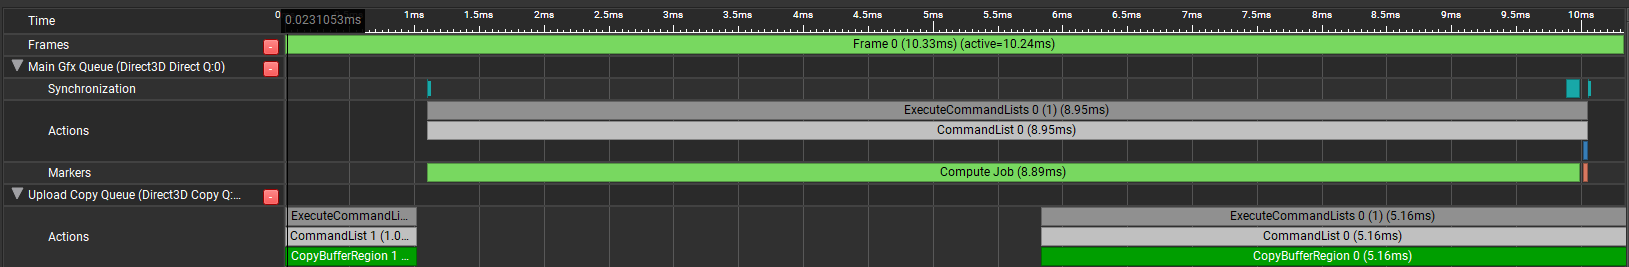
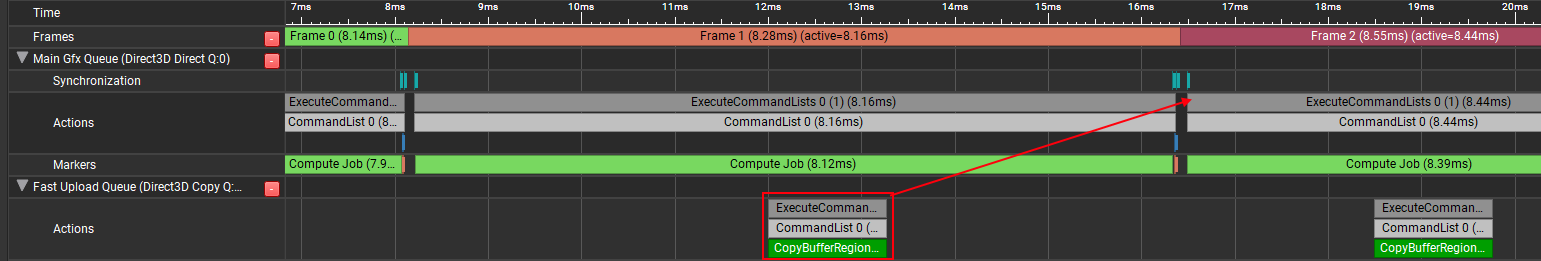
Big revision pass for the upload section

diff --git a/posts/gpu-memory-pool/index.html b/posts/gpu-memory-pool/index.html
@@ -6,11 +6,11 @@
 	<meta name="viewport" content="width=device-width, initial-scale=1.0">
 	<meta http-equiv="X-UA-Compatible" content="ie=edge">
 <meta itemprop="name" content="GPU Memory Pools in D3D12">
-<meta itemprop="description" content="Basics of GPU Memory Integrated/UMA GPUs Dedicated/NUMA GPUs How It Works In D3D12 Common Patterns in D3D12 Textures And The Two-Step Upload Working With The COPY Queue Allocating Staging Memory What About Buffers? What About DirectStorage? Results From My Testing App CPU Write Performance CPU Read Performance GPU Read Performance, Normal Access GPU Read Performance, Non-Coalesced Access GPU Read Performance, Various Buffer Sizes Conclusion When the monkey&rsquo;s paw granted our wish for lower-level/explicit graphics APIs, one of the consequences was that we were much more directly exposed to the fact that GPUs can have their own separate set of physical memory."><meta itemprop="datePublished" content="2022-07-25T00:00:00+00:00" />
+<meta itemprop="description" content="Basics of GPU Memory Integrated/UMA GPUs Dedicated/NUMA GPUs How It Works In D3D12 Common Patterns in D3D12 Textures And The Two-Step Upload Should We Upload Buffers? Working With The COPY Queue Two COPY Queues Are Better Than One? Allocating Staging Memory What About DirectStorage? Results From My Testing App CPU Write Performance CPU Read Performance GPU Read Performance, Normal Access GPU Read Performance, Non-Coalesced Access GPU Read Performance, Various Buffer Sizes Conclusion When the monkey&rsquo;s paw granted our wish for lower-level/explicit graphics APIs, one of the consequences was that we were much more directly exposed to the fact that GPUs can have their own separate set of physical memory."><meta itemprop="datePublished" content="2022-07-25T00:00:00+00:00" />
 <meta itemprop="dateModified" content="2022-07-25T00:00:00+00:00" />
-<meta itemprop="wordCount" content="8178"><meta itemprop="image" content="https://therealmjp.github.io/images/gpu-memory-pools/buffer_upload_copy_queue.png">
+<meta itemprop="wordCount" content="9294"><meta itemprop="image" content="https://therealmjp.github.io/images/gpu-memory-pools/buffer_upload_copy_queue.png">
 <meta itemprop="keywords" content="Graphics,DX12," /><meta property="og:title" content="GPU Memory Pools in D3D12" />
-<meta property="og:description" content="Basics of GPU Memory Integrated/UMA GPUs Dedicated/NUMA GPUs How It Works In D3D12 Common Patterns in D3D12 Textures And The Two-Step Upload Working With The COPY Queue Allocating Staging Memory What About Buffers? What About DirectStorage? Results From My Testing App CPU Write Performance CPU Read Performance GPU Read Performance, Normal Access GPU Read Performance, Non-Coalesced Access GPU Read Performance, Various Buffer Sizes Conclusion When the monkey&rsquo;s paw granted our wish for lower-level/explicit graphics APIs, one of the consequences was that we were much more directly exposed to the fact that GPUs can have their own separate set of physical memory." />
+<meta property="og:description" content="Basics of GPU Memory Integrated/UMA GPUs Dedicated/NUMA GPUs How It Works In D3D12 Common Patterns in D3D12 Textures And The Two-Step Upload Should We Upload Buffers? Working With The COPY Queue Two COPY Queues Are Better Than One? Allocating Staging Memory What About DirectStorage? Results From My Testing App CPU Write Performance CPU Read Performance GPU Read Performance, Normal Access GPU Read Performance, Non-Coalesced Access GPU Read Performance, Various Buffer Sizes Conclusion When the monkey&rsquo;s paw granted our wish for lower-level/explicit graphics APIs, one of the consequences was that we were much more directly exposed to the fact that GPUs can have their own separate set of physical memory." />
 <meta property="og:type" content="article" />
 <meta property="og:url" content="https://therealmjp.github.io/posts/gpu-memory-pool/" /><meta property="og:image" content="https://therealmjp.github.io/images/gpu-memory-pools/buffer_upload_copy_queue.png" /><meta property="article:section" content="posts" />
 <meta property="article:published_time" content="2022-07-25T00:00:00+00:00" />
@@ -20,7 +20,7 @@
 <meta name="twitter:image" content="https://therealmjp.github.io/images/gpu-memory-pools/buffer_upload_copy_queue.png"/>
 
 <meta name="twitter:title" content="GPU Memory Pools in D3D12"/>
-<meta name="twitter:description" content="Basics of GPU Memory Integrated/UMA GPUs Dedicated/NUMA GPUs How It Works In D3D12 Common Patterns in D3D12 Textures And The Two-Step Upload Working With The COPY Queue Allocating Staging Memory What About Buffers? What About DirectStorage? Results From My Testing App CPU Write Performance CPU Read Performance GPU Read Performance, Normal Access GPU Read Performance, Non-Coalesced Access GPU Read Performance, Various Buffer Sizes Conclusion When the monkey&rsquo;s paw granted our wish for lower-level/explicit graphics APIs, one of the consequences was that we were much more directly exposed to the fact that GPUs can have their own separate set of physical memory."/>
+<meta name="twitter:description" content="Basics of GPU Memory Integrated/UMA GPUs Dedicated/NUMA GPUs How It Works In D3D12 Common Patterns in D3D12 Textures And The Two-Step Upload Should We Upload Buffers? Working With The COPY Queue Two COPY Queues Are Better Than One? Allocating Staging Memory What About DirectStorage? Results From My Testing App CPU Write Performance CPU Read Performance GPU Read Performance, Normal Access GPU Read Performance, Non-Coalesced Access GPU Read Performance, Various Buffer Sizes Conclusion When the monkey&rsquo;s paw granted our wish for lower-level/explicit graphics APIs, one of the consequences was that we were much more directly exposed to the fact that GPUs can have their own separate set of physical memory."/>
 
 	<link rel="apple-touch-icon" sizes="180x180" href="/apple-touch-icon.png">
 	<link rel="icon" type="image/png" sizes="32x32" href="/favicon-32x32.png">
@@ -91,9 +91,10 @@
     <li><a href="#common-patterns-in-d3d12">Common Patterns in D3D12</a>
       <ul>
         <li><a href="#textures-and-the-two-step-upload">Textures And The Two-Step Upload</a></li>
+        <li><a href="#should-we-upload-buffers">Should We Upload Buffers?</a></li>
         <li><a href="#working-with-the-copy-queue">Working With The COPY Queue</a></li>
+        <li><a href="#two-copy-queues-are-better-than-one">Two COPY Queues Are Better Than One?</a></li>
         <li><a href="#allocating-staging-memory">Allocating Staging Memory</a></li>
-        <li><a href="#what-about-buffers">What About Buffers?</a></li>
         <li><a href="#what-about-directstorage">What About DirectStorage?</a></li>
       </ul>
     </li>
@@ -286,15 +287,35 @@
 <li><a href="https://docs.microsoft.com/en-us/windows/win32/api/d3d12/nf-d3d12-id3d12graphicscommandlist-copytextureregion">CopyTextureRegion</a> is called on a command list, one for each subresource in the texture (mip level or array slice)</li>
 <li>The command list is submitted on a queue where it executes on the GPU, and proper synchronization is used to ensure tha the copy completes before another command attempts to read from the texture</li>
 </ol>
-<p>This is naturally a bit tricky since you have a few tough choices to make in terms of exactly you do this. In particular you need to choose how exactly you allocate/aquire the UPLOAD buffer used as the source of the copy, and you also need to decide how and when you submit your command list on a command queue. The official D3D12 samples use a <a href="https://github.com/microsoft/DirectX-Graphics-Samples/blob/master/Samples/Desktop/D3D12DynamicIndexing/src/D3D12DynamicIndexing.cpp#L272">very simple scheme</a> where an UPLOAD buffer is created as a committed resource and the copy is immediately submitted on a DIRECT command queue (via <a href="https://github.com/microsoft/DirectX-Headers/blob/main/include/directx/d3dx12.h#L2210">UpdateSubresources</a> from the d3dx12.h helper header) followed by an immediate CPU wait for the submission to finish. That&rsquo;s totally fine for simple use cases, but what if you have many uploads to do and you don&rsquo;t want to spend a ton of time creating and destroying committed resources? What if you need to stream in these textures in background while most of your CPU cores are busy and your GPU is already executing giant batches of rendering work on the DIRECT queue? What if there&rsquo;s a texture that needs to be updated every single frame, and you don&rsquo;t want updating it to stall out one of your rendering threads? For these situations you probably want a more complex approach that better fits the use case.</p>
+<p>This process had the GPU effectively accomplish two goals: swizzling the texture data from a linear layout into a hardware-specific texel order, and getting the texture data into fast VRAM. Both are critical for performance, since textures are bandwidth heavy and rely on caching and 2D locality to keep things from slowing down too much. Neither of these are stricly recquired, since it&rsquo;s possible to allocate textures in SysRAM via custom heaps and you can also specify that a texture resource should use <code>D3D12_TEXTURE_LAYOUT_ROW_MAJOR</code> when creating it. However both of these can come with severe peformance penalties, so it is highly recommended to place textures in VRAM with <code>D3D12_TEXTURE_LAYOUT_UNKNOWN</code> (or <code>D3D12_TEXTURE_LAYOUT_64KB_UNDEFINED_SWIZZLE</code> for tiled resources).</p>
+<p>It two-step upload process might sound rather simple at first, but make no mistake: there are many potential paths to take and a lot of subtleties to consider when it comes to allocating staging memory and scheduling the actual copy/upload. We&rsquo;ll dig into that <a href="../gpu-memory-pool/#working-with-the-copy-queue">in a little bit</a>, but first let&rsquo;s discuss buffers.</p>
+<h3 id="should-we-upload-buffers">Should We Upload Buffers?<a href="#should-we-upload-buffers" class="anchor" aria-hidden="true"><svg xmlns="http://www.w3.org/2000/svg" viewBox="0 0 24 24" fill="none" stroke="currentColor" stroke-width="2" stroke-linecap="round" stroke-linejoin="round"><path d="M15 7h3a5 5 0 0 1 5 5 5 5 0 0 1-5 5h-3m-6 0H6a5 5 0 0 1-5-5 5 5 0 0 1 5-5h3"></path><line x1="8" y1="12" x2="16" y2="12"></line></svg></a></h3>
+<p>The two-step upload is a de-facto requirement for textures, but what about buffers? Unlike textures, buffers can be created in UPLOAD heaps and can be read directly from SysRAM by shaders and copy operations. But wouldn&rsquo;t they also benefit from being uploaded to VRAM? The answer to that is &ldquo;yes, sometimes&rdquo;. For large, read-only or rarely-updated buffers allocating them in VRAM and uploading their contents makes a ton of sense, and you can likely use the same mechanisms that you would use for initializing textures. The situation is slightly easier since you don&rsquo;t need to worry about CopyTextureRegion and RowPitch alignment requirements, but is otherwise mostly the same.</p>
+<p>Things are different though for smaller, frequently-updated buffers. For example, a 64-byte constant buffer containing a per-draw world transform that you update every frame. In these cases the data can fit nicely in cache, so you&rsquo;re probably not losing very much performance (if any) by letting the GPU read it over PCIe. Also if you&rsquo;re only reading the constant buffer once, you&rsquo;re liable to actually make performance <em>worse</em> by copying form SysRAM to VRAM first. Therefore you can usually save yourself the headache for these kinds of small dynamic buffers, and just let them live in SysRAM. If the data is truly fire-and-forget and doesn&rsquo;t need to persist longer than the current frame being recorded, you can use really fast linear allocator patterns to <a href="https://github.com/TheRealMJP/DXRPathTracer/blob/sm_6_6/SampleFramework12/v1.02/Graphics/DX12_Upload.cpp#L532">quickly grab a bit of temporary UPLOAD memory</a> that&rsquo;s tied to frame lifetime.</p>
+<p>Where things get trickier is buffers that are not small, are updated fairly frequently, and are accessed either more than once or with addresses that are unique for every thread of a draw or dispatch. For these cases you probably do want the full bandwidth of VRAM, but uploading their contents every frame can add additional costs and headaches that need to be considered. The simplest option of uploading the data syncronously via a CopyResource or CopyBufferRegion call on the main DIRECT/graphics queue gets the job done, but that introduces additional GPU time on that queue that has to be offset with the improved bandwidth afforded by VRAM. In the <a href="../gpu-memory-pool/#working-with-the-copy-queue">next section</a> we&rsquo;ll talk about more advanced scenarios for uploading data that can potentially result in better overall performance.</p>
+<!-- Leftover from previous revision
+
+For these cases you probably do want the full bandwidth of VRAM, but uploading them every single frame is perhaps not appealing if your uploader is tuned more for background resource loading/initialization. In these cases I've found you may want a sort-of hybrid approach: you want to quickly grab a bit of staging/UPLOAD memory that only needs to persist for the current frame, and then you want feed that into a batched COPY queue upload that's submitted once a frame. This gives you a fast path for getting the buffer data into VRAM that won't hold up critical rendering threads.
+
+ -->
+<p>Once CPU-accessible VRAM is ubiquitous through ReBAR, it seems plausible that nearly all CPU-updated buffers could live in VRAM and be directly updated from the CPU. This would simplify the situation considerably compared to what&rsquo;s required now. For integrated UMA GPUs that situation already exists: there&rsquo;s really no reason to do a two-step upload for buffer resources on these systems, and it would benefit engines to detect this case if they want to optimize for these GPUs.</p>
 <h3 id="working-with-the-copy-queue">Working With The COPY Queue<a href="#working-with-the-copy-queue" class="anchor" aria-hidden="true"><svg xmlns="http://www.w3.org/2000/svg" viewBox="0 0 24 24" fill="none" stroke="currentColor" stroke-width="2" stroke-linecap="round" stroke-linejoin="round"><path d="M15 7h3a5 5 0 0 1 5 5 5 5 0 0 1-5 5h-3m-6 0H6a5 5 0 0 1-5-5 5 5 0 0 1 5-5h3"></path><line x1="8" y1="12" x2="16" y2="12"></line></svg></a></h3>
+<p>When discussing the two-step upload we mentioned how there are actually many choices and trade-offs to consider when setting up upload paths in your engine. In particular you need to choose how exactly you allocate/aquire the UPLOAD buffer used as the source of the copy, and you also need to decide how and when you submit your command list on a command queue. The official D3D12 samples use a <a href="https://github.com/microsoft/DirectX-Graphics-Samples/blob/master/Samples/Desktop/D3D12DynamicIndexing/src/D3D12DynamicIndexing.cpp#L272">very simple scheme</a> where an UPLOAD buffer is created as a committed resource and the copy is immediately submitted on a DIRECT command queue (via <a href="https://github.com/microsoft/DirectX-Headers/blob/main/include/directx/d3dx12.h#L2210">UpdateSubresources</a> from the d3dx12.h helper header) followed by an immediate CPU wait for the submission to finish. That&rsquo;s totally fine for simple use cases, but what if you have many uploads to do and you don&rsquo;t want to spend a ton of time creating and destroying committed resources? What if you need to stream in these textures in background while most of your CPU cores are busy and your GPU is already executing giant batches of rendering work on the DIRECT queue? What if there&rsquo;s a texture or buffer in VRAM that needs to be updated every single frame, and you don&rsquo;t want updating it to stall out one of your rendering threads? For these situations you probably want a more complex approach that better fits the use case.</p>
 <p>In many cases it&rsquo;s ideal to use the dedicated COPY queue type to perform this kind of uploading. On NUMA devices this queue typically feeds to a dedicated DMA unit on the video card, which is specifically optimized for perform asynchronous copies of data over the PCIe bus. This not only means it may be more efficient than a copy performed on a DIRECT queue, but it also means that the actual copy operation can potentially run in parallel to other graphics and compute work running on the GPU! For first-time initialization this is not a big deal, but for background streaming/loading it&rsquo;s definitely a better option than forcing your critical per-frame drawing to wait for a bunch of uploads to finish executing (which is what will happen if you submit your copies to your main DIRECT queue). Async copies can still slow down your graphics work a bit by consuming some bandwidth, but this is generally still a better proposition than forcing your graphics work to wait for a bunch of slow PCIe copies to finish. To illustrate the difference, the images below are from two different GPU Trace captures taken with Nvidia Nsight graphics:</p>
 <p><a href="/images/gpu-memory-pools/buffer_upload_direct_queue.png"><img src="/images/gpu-memory-pools/buffer_upload_direct_queue.png" alt=""></a></p>
 <p><a href="/images/gpu-memory-pools/buffer_upload_copy_queue.png"><img src="/images/gpu-memory-pools/buffer_upload_copy_queue.png" alt=""></a></p>
-<p>The top image is capture where a 64 MB buffer is uploaded every frame from SysRAM to VRAM using CopyBufferRegion on the main DIRECT queue, which is followed by a compute dispatch that immediately reads from the uploaded buffer. The bottom image shows what things look like if the CopyBufferRegion is instead submitted to COPY queue, allowing it to overlap with the previous frame&rsquo;s work on the DIRECT queue. Notice how the frame time is 3.5ms shorter when using the COPY queue, despite the dispatch taking about 10% longer when overlapped with the upload.</p>
+<p>The top image is capture where a 16 MB buffer is uploaded every frame from SysRAM to VRAM using CopyBufferRegion on the main DIRECT queue, which is followed by a compute dispatch that immediately reads from the uploaded buffer. The bottom image shows what things look like if the CopyBufferRegion is instead submitted to COPY queue, allowing it to overlap with the previous frame&rsquo;s work on the DIRECT queue. Notice how the frame time is 1.2ms shorter when using the COPY queue, despite the dispatch taking slightly longer when overlapped with the upload.</p>
 <p>The trade-off here is that you will take on some significant complexity by using a separate COPY queue instead of re-using your primary queue. Submitting on an async queue means it is now up to you to properly synchronize your submissions across multiple queues: you will need to signal a fence on your COPY queue after submitting a command list and then have another queue wait on that fence before commands on the latter queue can read from the resources being uploaded. This is exactly like &ldquo;async compute&rdquo; setups that are common for overlapping compute work with graphics work, and has some of the same headaches. Like async compute, you need to carefully manage the submissions and synchronization between your queues if you&rsquo;re hoping for them to overlap. You also need to take care not to delete or otherwise re-use your staging buffers until the CPU has fully waited for the COPY fence to be signaled, otherwise you will get incorrect results and/or a GPU crash.</p>
-<p>One extra bonus of using a COPY queue is that under the existing (and <a href="https://microsoft.github.io/DirectX-Specs/d3d/D3D12EnhancedBarriers.html">soon-to-be-legacy</a>) barrier setup there are <a href="https://docs.microsoft.com/en-us/windows/win32/direct3d12/using-resource-barriers-to-synchronize-resource-states-in-direct3d-12#state-decay-to-common">special rules</a> carved out for resource decay and promotion when a COPY queue is involved. When a resource is copied to or from on a COPY queue, that resource automatically decays back to a COMMON state after the COPY command list finished executing. Since COMMON resources get auto-promoted on their first use, this means that you can typically completely skip issuing any barriers for read-only resources that you initialize this way! This extremely convenient, and can even save some performance as well.</p>
+<p>One extra bonus of using a COPY queue is that under the existing (and <a href="https://microsoft.github.io/DirectX-Specs/d3d/D3D12EnhancedBarriers.html">soon-to-be-legacy</a>) barrier setup there are <a href="https://docs.microsoft.com/en-us/windows/win32/direct3d12/using-resource-barriers-to-synchronize-resource-states-in-direct3d-12#state-decay-to-common">special rules</a> carved out for resource decay and promotion when a COPY queue is involved. When a resource is copied to or from on a COPY queue, that resource automatically decays back to a COMMON state after the COPY command list finished executing. Since COMMON resources get auto-promoted on their first use, this means that you can typically completely skip issuing any barriers for read-only resources that you initialize this way! This is extremely convenient, and can even save some performance as well.</p>
 <p>Before moving on, I should point out that all of the above really only applies for NUMA/dedicated devices. A UMA/integrated device often doesn&rsquo;t have a dedicated DMA engine, and so any submissions to COPY queues will end up getting <a href="../breaking-down-barriers-part-5-back-to-the-real-world/#the-present-windows-10-d3d12-and-wddm-20">serialized/flattened</a> onto a single hardware queue. The typical DEFAULT/UPLOAD setup will still work correctly on ths type of hardware, but if you want to optimize for integrated devices then you may want to consider adding a path that uses custom heaps to allow the CPU to directly initialize your textures.</p>
+<h3 id="two-copy-queues-are-better-than-one">Two COPY Queues Are Better Than One?<a href="#two-copy-queues-are-better-than-one" class="anchor" aria-hidden="true"><svg xmlns="http://www.w3.org/2000/svg" viewBox="0 0 24 24" fill="none" stroke="currentColor" stroke-width="2" stroke-linecap="round" stroke-linejoin="round"><path d="M15 7h3a5 5 0 0 1 5 5 5 5 0 0 1-5 5h-3m-6 0H6a5 5 0 0 1-5-5 5 5 0 0 1 5-5h3"></path><line x1="8" y1="12" x2="16" y2="12"></line></svg></a></h3>
+<p>Let&rsquo;s imagine you&rsquo;ve setup your engine to be able to submit SysRAM-&gt;VRAM uploads on a COPY queue so that they run asynchronously to your main graphics and compute work that&rsquo;s performed every frame. You hook this up to the buffer/texture initialization uploads that occur when new resources are created, and it seems to work great. In fact it works so well that you decide to re-use the same path for when the CPU needs to perform per-frame updates of large buffers that live in VRAM. Whenever you peek at a timing capture you see the uploads overlapping with your graphics work, so you consider your work done and move on. But then one day you get reports that the game&rsquo;s frame time is spiking erratically in areas where there is heavy background streaming, and it appears to be coming from the GPU. You peek at the engine&rsquo;s timestamp queries surrounding your main graphics queue submission, and confusingly everything looks fine. It&rsquo;s not until you take a full multi-frame timing capture that you notice the problem:</p>
+<p><a href="/images/gpu-memory-pools/background_streaming_upload_queue.png"><img src="/images/gpu-memory-pools/background_streaming_upload_queue.png" alt=""></a></p>
+<p>It looks like your uploads from the background streaming are effectively hogging the COPY queue, preventing your more-critical buffer update upload from running. Since your graphics queue waits for the buffer upload to complete, it remains idle for a while which makes the overall frame time longer. This is pretty unfortunate and clearly needs to be fixed, but what should you do? One option is to move your critical upload onto the main DIRECT queue, effectively giving up on getting any overlap for that copy and letting your background uploads have the COPY queue all to themselves:</p>
+<p><a href="/images/gpu-memory-pools/background_streaming_direct_queue.png"><img src="/images/gpu-memory-pools/background_streaming_direct_queue.png" alt=""></a></p>
+<p>Things are much improved with this setup. In the fabricated scenario I setup for these captures we&rsquo;ve gone from a worst-case of 19.39ms down to about 12ms per frame. You&rsquo;re tempted to submit this and mark the JIRA task as complete, but as a performance-oriented programmer you can&rsquo;t shake the nagging feeling that we can still even better than this. It&rsquo;s just not ideal to require the graphics queue to have to eat the cost of that critical buffer upload, and it&rsquo;s <em>really</em> not ideal that the critical upload is actually running slower than usual since it&rsquo;s sharing the PCIe bandwidth with the background uploads (in my test case it&rsquo;s taking about 2.43ms instead of 1.2ms for a 16 MB buffer, roughly double the time). Seeing how the two subnissions end up sharing bandwidth, you think to yourself &ldquo;wouldn&rsquo;t it be great if the graphics work, background uploads, and critical uploads could all run asynchronously to each other and the uploads could split the bandwidth?&rdquo;. Figuring you have nothing to lose, you decide to add a second COPY queue to the engine and redirect all of your critical uploads to that queue instead. Much to your surprise and delight, this works!</p>
+<p><a href="/images/gpu-memory-pools/background_streaming_fast_queue.png"><img src="/images/gpu-memory-pools/background_streaming_fast_queue.png" alt=""></a></p>
+<p>It turns out that dedicated video cards from Nvidia and AMD support this kind of thing, which is advertised by the fact that they expose two transfer queues in Vulkan. What ends up happening is the background uploads and critical upload still share bandwidth which slows down the critical upload, but since the critical upload is able to execute much earlier it doesn&rsquo;t hold up the main graphics work. This won&rsquo;t scale up forever: at some point if there are too many critical uploads (or the main graphics work completes too quickly) then the critical upload COPY queue will hold up the main DIRECT/graphics queue. But it&rsquo;s still absolutely a compelling option for these kinds of advanced scenarios, and likely justifies the additional complexity.</p>
 <h3 id="allocating-staging-memory">Allocating Staging Memory<a href="#allocating-staging-memory" class="anchor" aria-hidden="true"><svg xmlns="http://www.w3.org/2000/svg" viewBox="0 0 24 24" fill="none" stroke="currentColor" stroke-width="2" stroke-linecap="round" stroke-linejoin="round"><path d="M15 7h3a5 5 0 0 1 5 5 5 5 0 0 1-5 5h-3m-6 0H6a5 5 0 0 1-5-5 5 5 0 0 1 5-5h3"></path><line x1="8" y1="12" x2="16" y2="12"></line></svg></a></h3>
 <p>As I alluded to earlier, another complicating aspect of the two-step upload is that you need to reserve a sufficient amount of staging memory from <em>somewhere</em>. This memory then needs to remain allocated and untouched until the copying queue completely finishes executing the submission that pulls from the staging buffer. The simple approach seen in some samples is to create a committed buffer resource every time some data needs to be uploaded, and then destroy it after the submission is finished. While this certainly works, creating those committed resoures is definitely not free (especially if you omit the <code>D3D12_HEAP_FLAG_CREATE_NOT_ZEROED </code> flag!), and you could slow down your resource loading and creation by constantly creating and freeing like that. Another tricky issue is memory usage: if you keep allocating more staging buffers, you won&rsquo;t be able to free them until the GPU consumes them. This can result in unbounded memory usage if many uploads are being batched into a single queue submission during engine initialization. A single big submission with tons of uploads can also be bad on integrated GPUs that don&rsquo;t have an async DMA unit that you can use, in which case you&rsquo;re just going to stall the main graphics queue until all of the uploads finish.</p>
 <p>As an alternative, one might consider sub-allocating from a single large staging buffer instead of constantly creating new ones. Since the allocation is tied to the GPU progress of copy operations, a ring buffer can be a pretty natural fit. The overall flow could go something like this:</p>
@@ -309,13 +330,9 @@
 <li>Periodically check the fence value of previous submissions, if they&rsquo;ve completed move up the ring buffer tail to free up more space</li>
 </ol>
 <p>This is but one possibility for an allocation scheme, and even within such a setup there are more choices to be made. For instance, should it be thread-safe? If multiple threads can use it, which operations can happen in parallel? Is the calling code responsible for copying into the staging buffer and issuing copy commands, or is the uploader mechanism responsible? When should you submit to the GPU, and when should you poll for completed submissions? Should you batch multiple uploads into a single submission? How does this interact with the &ldquo;main&rdquo; per-frame submissions on DIRECT and COMPUTE queues? How big should your ring buffer be, and what should happen if an upload exceeds the size of that ring buffer? These questions don&rsquo;t necessarily have one-size-fits all answer, so it really depends on your engine and use case.</p>
-<p>One example of the ring buffer setup can be found in <a href="https://github.com/TheRealMJP/DXRPathTracer/blob/sm_6_6/SampleFramework12/v1.02/Graphics/DX12_Upload.cpp">my sample framework</a>. It uses locks to ensure thread-safety by serializing allocations from the ring buffer as well as submissions to the COPY queue, but it allows multiple calling threads to copy into staging memory and record copy commands in parallel once they&rsquo;ve successfully allocated. It also allows for uploads to happen on background streaming threads that are decoupled from frame rendering. This is achieved by having a 1:1 relationship between uploads and submissions, which is definitely a non-optimal choice for uploading many small resources in succession. In that case the uploads can become bottlenecked by the max number of submissions rather than the ring buffer itself, and overhead from queue submission could start to dominate. The async COPY queue submissions are also waited on by the next frame&rsquo;s DIRECT/COMPUTE queue submissions, which is always safe but usually too conservative.</p>
+<p>One example of the ring buffer setup can be found in <a href="https://github.com/TheRealMJP/DXRPathTracer/blob/sm_6_6/SampleFramework12/v1.02/Graphics/DX12_Upload.cpp">my sample framework</a>. It uses locks to ensure thread-safety by serializing allocations from the ring buffer as well as submissions to the COPY queue, but it allows multiple calling threads to copy into staging memory and record copy commands in parallel once they&rsquo;ve successfully allocated. It also allows for uploads to happen on background streaming threads that are decoupled from frame rendering. This is achieved by having a 1:1 relationship between uploads and submissions, which is definitely a non-optimal choice for uploading many small resources in succession. In that case the uploads can become bottlenecked by the max number of submissions rather than the ring buffer itself, and overhead from queue submission could start to dominate. The async COPY queue submissions are also waited on by the next frame&rsquo;s DIRECT/COMPUTE queue submissions, which is always safe (the calling code does not need to wait before using the resource to record commands) but usually too conservative. My framework also pairs this with a <a href="https://github.com/TheRealMJP/DXRPathTracer/blob/sm_6_6/SampleFramework12/v1.02/Graphics/DX12_Upload.cpp#L391">FastUploader</a> path that&rsquo;s intended for &ldquo;critical&rdquo; per-frame buffer updates. This path uses its own dedicated COPY queue, and batches all copies from a frame into a single command list and COPY queue submission that&rsquo;s performed once a frame. It also does not use the staging ring buffer, and instead allows calling code to either aquire some temporary per-frame staging memory or provide its own staging buffer.</p>
+<p>As an example of another intriguing approach that makes different trade-offs, consider the uploader that <a href="https://alextardif.com/index.html">Alex Tardiff</a> wrote for his <a href="https://alextardif.com/DX12Tutorial.html">D3D12Lite framework</a>. Rather than using a ring buffer, the uploader allocates linearly from a staging buffer and fits as many uploads as it can until the staging buffer is exhausted. Every frame the uploads that were staged are submitted in a single command list, and the remaining uploads that do not fit are queued to be uploaded in a subsequent frame. This provides great batching behavior, and effectively enforces a fixed budget in terms of upload bandwidth that will consumed every frame. In comparison to my framework, the main tradeoff is that the uploader handles copying into staging memory and recording D3D12 commands (as opposed to the calling code handling it), which requires the memory containing the source data to be persistent until staging memory frees up. Calling code must also potentially wait several frames until the upload completes, although this kind of synchronization is nicely simplified by tying it to the usual frame submission. Overall I would say it&rsquo;s very compelling, and could work well for a lot of scenarios!</p>
 <p>For another possible example, check out <a href="https://github.com/microsoft/DirectXTK12/wiki/ResourceUploadBatch">ResourceUploadBatch</a> from DirectXTK. This helper class still allocates a committed resource for use as staging memory, but allows (manually) batching multiple uploads together into a single submission. It also makes use of <code>std::future</code> as a way of tracking when an upload actually completes, which is a nice touch.</p>
-<h3 id="what-about-buffers">What About Buffers?<a href="#what-about-buffers" class="anchor" aria-hidden="true"><svg xmlns="http://www.w3.org/2000/svg" viewBox="0 0 24 24" fill="none" stroke="currentColor" stroke-width="2" stroke-linecap="round" stroke-linejoin="round"><path d="M15 7h3a5 5 0 0 1 5 5 5 5 0 0 1-5 5h-3m-6 0H6a5 5 0 0 1-5-5 5 5 0 0 1 5-5h3"></path><line x1="8" y1="12" x2="16" y2="12"></line></svg></a></h3>
-<p>I was primarily talking about textures in terms of the two-step upload, but what about buffers? Unlike textures, buffers can be created in UPLOAD heaps and can be read directly from SysRAM by shaders and copy operations. But wouldn&rsquo;t they also benefit from being uploaded to VRAM? The answer to that is &ldquo;yes, sometimes&rdquo;. For large, read-only or rarely-updated buffers allocating them in VRAM and uploading their contents makes a ton of sense, and you can likely use the same mechanisms that you would use for initializing textures. The situation is slightly easier since you don&rsquo;t need to worry about CopyTextureRegion and RowPitch alignment requirements, but is otherwise mostly the same.</p>
-<p>Things are different though for smaller, frequently-updated buffers. For example, a 64-byte constant buffer containing a per-draw world transform that you update every frame. In these cases the data can fit nicely in cache, so you&rsquo;re probably not losing very much performance (if any) by letting the GPU read it over PCIe. Also if you&rsquo;re only reading the constant buffer once, you&rsquo;re liable to actually make performance <em>worse</em> by copying form SysRAM to VRAM first. Therefore you can usually save yourself the headache for these kinds of small dynamic buffers, and just let them live in SysRAM. If the data is truly fire-and-forget and doesn&rsquo;t need to persist longer than the current frame being recorded, you can use really fast linear allocator patterns to <a href="https://github.com/TheRealMJP/DXRPathTracer/blob/sm_6_6/SampleFramework12/v1.02/Graphics/DX12_Upload.cpp#L448">quickly grab a bit of temporary UPLOAD memory</a> that&rsquo;s tied to frame lifetime.</p>
-<p>Where things get trickier is buffers that are not small, are updated fairly frequently, and are accessed either more than once or with addresses that are unique for every thread of a draw or dispatch. For these cases you probably do want the full bandwidth of VRAM, but uploading them every single frame is perhaps not appealing if your uploader is tuned more for background resource loading/initialization. In these cases I&rsquo;ve found you may want a sort-of hybrid approach: you want to quickly grab a bit of staging/UPLOAD memory that only needs to persist for the current frame, and then you want feed that into a batched COPY queue upload that&rsquo;s submitted once a frame. This gives you a fast path for getting the buffer data into VRAM that won&rsquo;t hold up critical rendering threads.</p>
-<p>Once CPU-accessible VRAM is ubiquitous through ReBAR, it seems plausible that nearly all CPU-updated buffers could live in VRAM and be directly updated from the CPU. This would simplify the situation considerably compared to what&rsquo;s required now. For integrated UMA GPUs that situation already exists: there&rsquo;s really no reason to do a two-step upload for buffer resources on these systems, and it would benefit engines to detect this case if they want to optimize for these GPUs.</p>
 <h3 id="what-about-directstorage">What About DirectStorage?<a href="#what-about-directstorage" class="anchor" aria-hidden="true"><svg xmlns="http://www.w3.org/2000/svg" viewBox="0 0 24 24" fill="none" stroke="currentColor" stroke-width="2" stroke-linecap="round" stroke-linejoin="round"><path d="M15 7h3a5 5 0 0 1 5 5 5 5 0 0 1-5 5h-3m-6 0H6a5 5 0 0 1-5-5 5 5 0 0 1 5-5h3"></path><line x1="8" y1="12" x2="16" y2="12"></line></svg></a></h3>
 <p>Some of you may have been asking yourself &ldquo;hey, how does DirectStorage fit into this?&rdquo; as you were reading through this section. DirectStorage is capable of fully managing the full journey from disk to staging memory to VRAM all on its own, which is pretty awesome. Unfortunately I&rsquo;m not personally familar with the inner details of how DirectStorage manages these things, nor do I have much experience with using it. I would assume they are biasing for high throughput of upload operations, since the main goal of that API is to improve loading times. Based on <a href="https://github.com/microsoft/DirectStorage/blob/main/Docs/DeveloperGuidance.md#staging-buffers-and-copying">the docs</a>, it sounds like they always suballocate staging memory from a single upload buffer and the operation will fail if the request is larger than the configured staging buffer size.</p>
 <h2 id="results-from-my-testing-app">Results From My Testing App<a href="#results-from-my-testing-app" class="anchor" aria-hidden="true"><svg xmlns="http://www.w3.org/2000/svg" viewBox="0 0 24 24" fill="none" stroke="currentColor" stroke-width="2" stroke-linecap="round" stroke-linejoin="round"><path d="M15 7h3a5 5 0 0 1 5 5 5 5 0 0 1-5 5h-3m-6 0H6a5 5 0 0 1-5-5 5 5 0 0 1 5-5h3"></path><line x1="8" y1="12" x2="16" y2="12"></line></svg></a></h2>
@@ -381,7 +398,7 @@
     <canvas id="cpu-read-chart" width="" height=""></canvas>
     <script src="/js/gpu-memory-pools/cpu-read-chart.js"></script>
 </div>
-<p>For this test case, we want to see how quickly (or slowly) the CPU is able to read from CPU-visible GPU memory. For uncached SysRAM it takes about 4ms to read the entire 16 MB buffer, which is about 4x more time than it took to fill the buffer with write combining. Meanwhile for cached SysRAM it&rsquo;s about 60x faster, no doubt because the buffer is still present in the cache hierarchy after being filled just prior to the reading step. As for CPU-visible VRAM, we have officially entered &ldquo;oh no, what I have done?&rdquo; territory at a whopping 26.66ms. Remember kids: friends don&rsquo;t let friends read from VRAM on the CPU.</p>
+<p>For this test case, we want to see how quickly (or slowly) the CPU is able to read from CPU-visible GPU memory. For uncached SysRAM it takes about 4ms to read the entire 16 MB buffer, which is about 4x more time than it took to fill the buffer with write combining. Meanwhile for cached SysRAM it&rsquo;s about 60x faster, no doubt because the buffer is still present in the cache hierarchy after being filled just prior to the reading step. In real-world scenarios we might expect read performance to be worse for this case since the data may not be present in cache. As for CPU-visible VRAM, we have officially entered &ldquo;oh no, what I have done?&rdquo; territory at a whopping 26.66ms. Remember kids: friends don&rsquo;t let friends read from VRAM on the CPU!</p>
 <h3 id="gpu-read-performance-normal-access">GPU Read Performance, Normal Access<a href="#gpu-read-performance-normal-access" class="anchor" aria-hidden="true"><svg xmlns="http://www.w3.org/2000/svg" viewBox="0 0 24 24" fill="none" stroke="currentColor" stroke-width="2" stroke-linecap="round" stroke-linejoin="round"><path d="M15 7h3a5 5 0 0 1 5 5 5 5 0 0 1-5 5h-3m-6 0H6a5 5 0 0 1-5-5 5 5 0 0 1 5-5h3"></path><line x1="8" y1="12" x2="16" y2="12"></line></svg></a></h3>
 <div>
     <canvas id="gpu-read-chart" width="" height=""></canvas>
@@ -437,6 +454,13 @@
 </ul>
 </li>
 </ul>
+<p>Finally, I&rsquo;d like to thank the following people for reviewing this post early and providing great feedback:</p>
+<ul>
+<li><a href="https://asawicki.info/">Adam Sawicki</a> (extra-special thanks for the suggestion to try using two COPY queues)</li>
+<li><a href="https://alextardif.com/">Alex Tardiff</a></li>
+<li><a href="https://www.jeremyong.com/">Jeremy Ong</a></li>
+<li><a href="https://twitter.com/pbrubaker">Pete Brubaker</a></li>
+</ul>
 <p>That&rsquo;s all for now, good luck with wrangling those GPUs and their memory pools!</p>
 <div class="footnotes" role="doc-endnotes">
 <hr>
@@ -453,7 +477,7 @@
 				<p>
 					<svg xmlns="http://www.w3.org/2000/svg" width="24" height="24" viewBox="0 0 24 24" fill="none" stroke="currentColor" stroke-width="2" stroke-linecap="round" stroke-linejoin="round" class="feather feather-tag meta-icon"><path d="M20.59 13.41l-7.17 7.17a2 2 0 0 1-2.83 0L2 12V2h10l8.59 8.59a2 2 0 0 1 0 2.82z"></path><line x1="7" y1="7" x2="7" y2="7"></line></svg><span class="tag"><a href="https://therealmjp.github.io/tags/graphics">Graphics</a></span><span class="tag"><a href="https://therealmjp.github.io/tags/dx12">DX12</a></span>
 				</p>
-				<p><svg xmlns="http://www.w3.org/2000/svg" width="24" height="24" viewBox="0 0 24 24" fill="none" stroke="currentColor" stroke-width="2" stroke-linecap="round" stroke-linejoin="round" class="feather feather-file-text"><path d="M14 2H6a2 2 0 0 0-2 2v16a2 2 0 0 0 2 2h12a2 2 0 0 0 2-2V8z"></path><polyline points="14 2 14 8 20 8"></polyline><line x1="16" y1="13" x2="8" y2="13"></line><line x1="16" y1="17" x2="8" y2="17"></line><polyline points="10 9 9 9 8 9"></polyline></svg>8178 Words</p>
+				<p><svg xmlns="http://www.w3.org/2000/svg" width="24" height="24" viewBox="0 0 24 24" fill="none" stroke="currentColor" stroke-width="2" stroke-linecap="round" stroke-linejoin="round" class="feather feather-file-text"><path d="M14 2H6a2 2 0 0 0-2 2v16a2 2 0 0 0 2 2h12a2 2 0 0 0 2-2V8z"></path><polyline points="14 2 14 8 20 8"></polyline><line x1="16" y1="13" x2="8" y2="13"></line><line x1="16" y1="17" x2="8" y2="17"></line><polyline points="10 9 9 9 8 9"></polyline></svg>9294 Words</p>
 				<p><svg xmlns="http://www.w3.org/2000/svg" width="24" height="24" viewBox="0 0 24 24" fill="none" stroke="currentColor" stroke-width="2" stroke-linecap="round" stroke-linejoin="round" class="feather feather-calendar"><rect x="3" y="4" width="18" height="18" rx="2" ry="2"></rect><line x1="16" y1="2" x2="16" y2="6"></line><line x1="8" y1="2" x2="8" y2="6"></line><line x1="3" y1="10" x2="21" y2="10"></line></svg>2022-07-24 17:00 -0700</p>
 			</footer>
 		</article>
